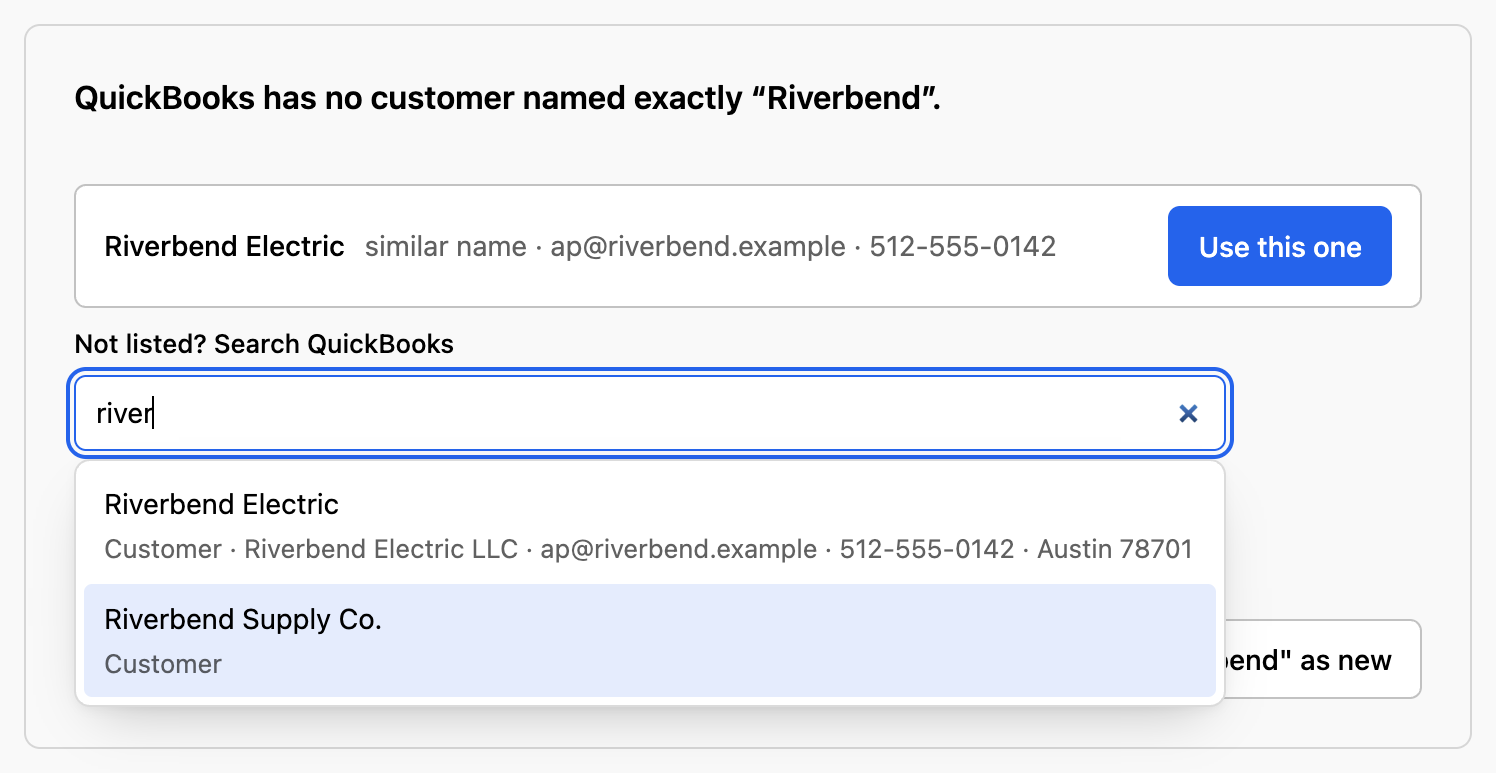
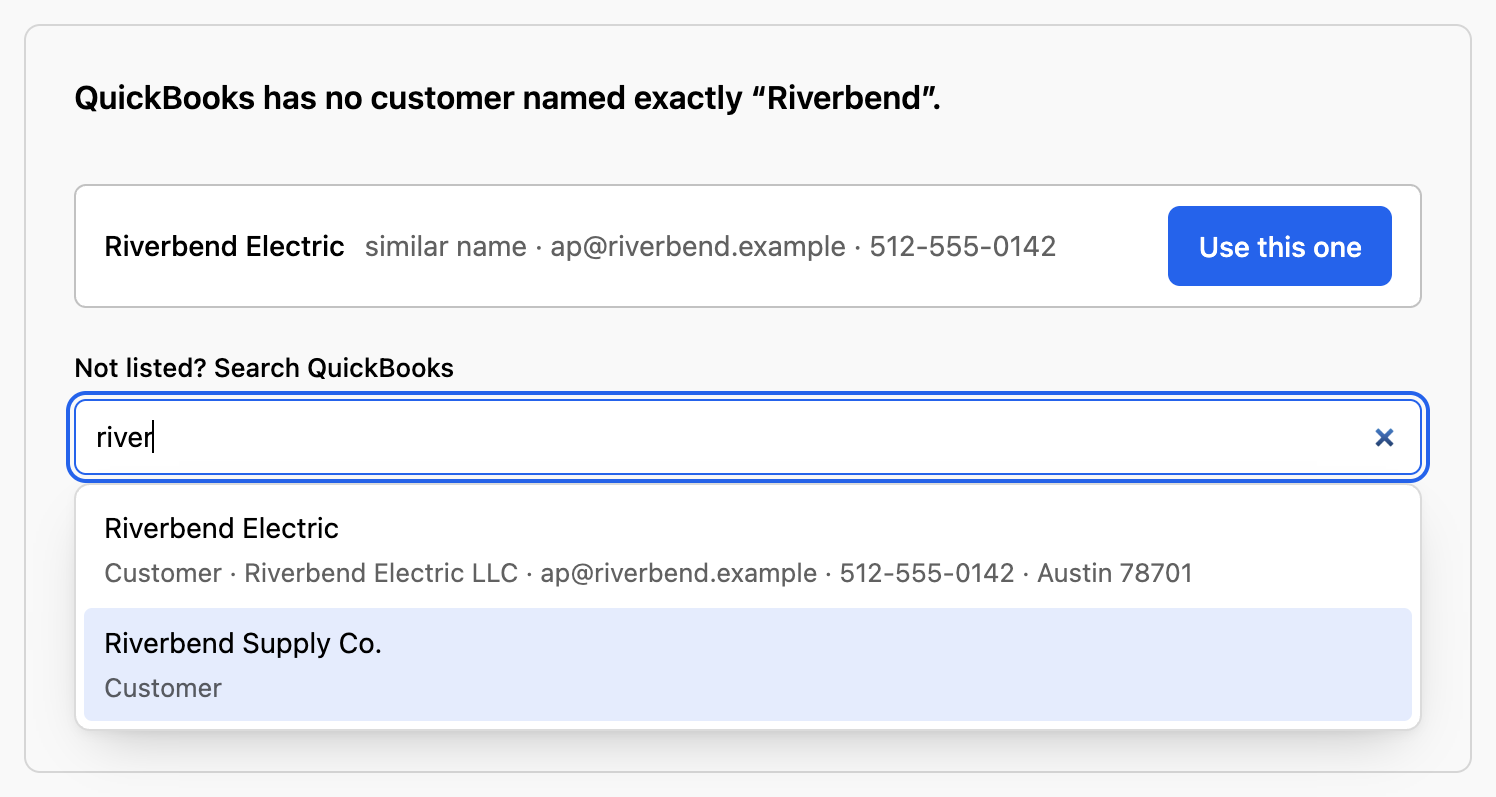
Beside full-width picks a form takes the width, so every button shares one right edge
The open search keeps a gap under the picks. The README says Tailwind v3 isn't
supported with the engine's stylesheet (owner's decision: v4 only).

diff --git a/app/assets/stylesheets/qube_rails.css b/app/assets/stylesheets/qube_rails.css
@@ -204,6 +204,11 @@
     max-width: none;
   }
 
+  /* Beside full-width picks a form takes the width too, so every button shares one right edge */
+  :where(.qube-question:has(.qube-picks) .qube-choice-form) {
+    max-width: none;
+  }
+
   :where(.qube-choice-form .qube-label) {
     font-size: 1em;
   }
@@ -278,6 +283,10 @@
   :where(.qube-search-disclosure) {
     display: grid;
     gap: 12px;
+  }
+
+  :where(.qube-search-disclosure[open]) {
+    margin-top: 12px;
   }
 
   :where(.qube-search-disclosure > summary) {

diff --git a/CHANGELOG.md b/CHANGELOG.md
@@ -73,6 +73,8 @@ read as QuBe Sync now sends them. Run `bin/rails qube_rails:install:migrations` 
 - A rows field in steps puts its step count ("2 of 3"), Back and Next in that row, before the
   submit, instead of a step line above the records and a row of its own; the row reads cancel …
   2 of 3, Back, Next (or the submit on the last record).
+- Beside full-width picks (a near match, a name clash) a form takes the full width too, so its
+  submit shares the picks' and exits' right edge; the open search keeps a gap under the picks.
 - A form's fields and button row share one column (`--qube-form-width`, 36rem; a rows field takes
   the whole width), so the submit lines up with the fields' right edge.
 - On a narrow question (a container under 30rem) the row's end comes first, its buttons filling

diff --git a/README.md b/README.md
@@ -699,7 +699,7 @@ no global styles.
 
 - **Tailwind v4** (preflight in `@layer base`): works as it is, in any load order; your
   `ui_classes` utilities override the engine's look.
-- **Tailwind v3** (unlayered preflight): preflight's `*`, `button`, `input` and `[type=submit]`
+- **Tailwind v3** (unlayered preflight) isn't supported with the engine's stylesheet: preflight's `*`, `button`, `input` and `[type=submit]`
   rules beat a layered stylesheet, so the engine's borders, button backgrounds and paddings are
   reset. Give every button and input piece classes (the example below does the main ones; add
   `pick`, `button_ghost`, `search_result` and `segment`), or move to v4.
